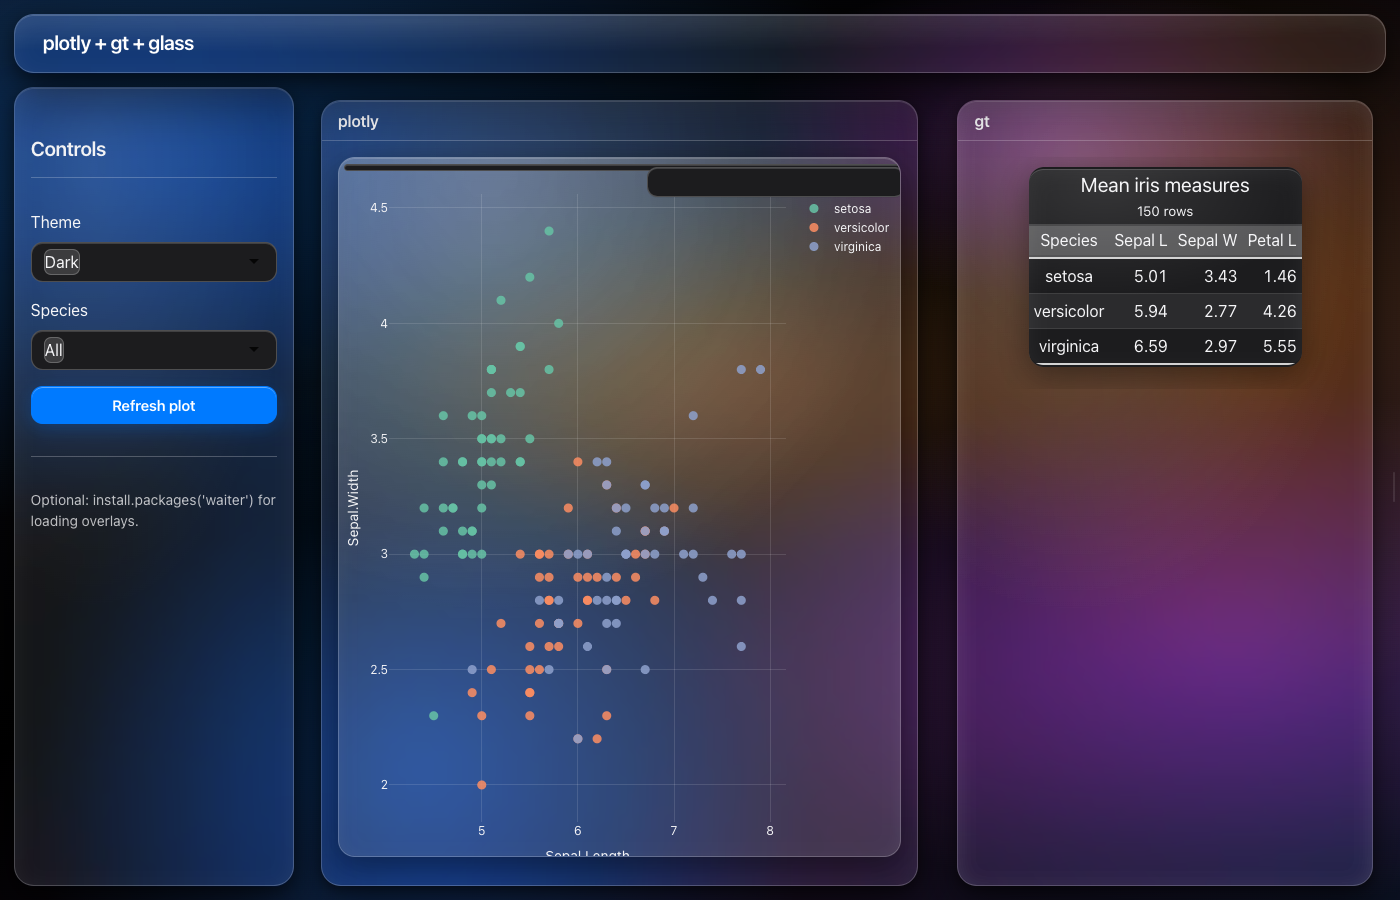
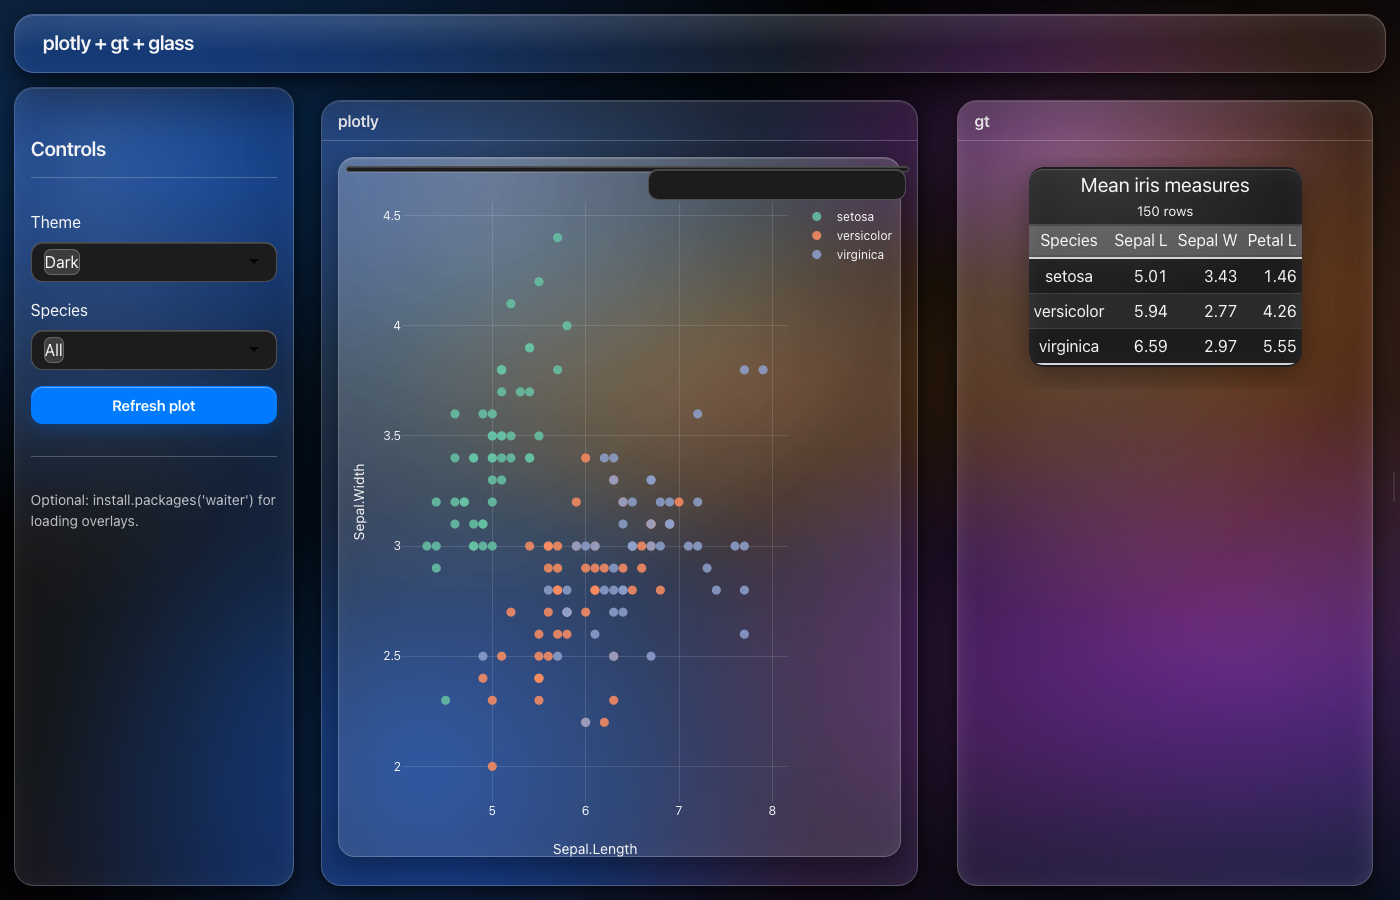
Refresh README screenshots for 0.2.0 release polish
Recapture dashboard and plotly-gt light/dark figures with navbar brand
ink fix and unclipped axis titles. Note the fixes in NEWS.

diff --git a/NEWS.md b/NEWS.md
@@ -53,6 +53,8 @@
   README light/dark screenshots for plotly+gt.
 * CI workflow `visual-qa` (testthat + dual-theme contrast audit) and committed
   `inst/scripts/audit-baseline.json`.
+* Navbar brand / page title ink uses `--glass-body-color` (no more white brand
+  on light glass). Plotly hosts no longer clip x-axis titles.
 * Active-on-accent contrast: lower Bootstrap `$min-contrast-ratio` to **3** so
   `color-contrast()` picks white on brand blues/purples (white on `#007AFF` is
   ~4.02:1 and failed the old 4.5 gate). Solid `.bg-*` / `.text-bg-*` fills
